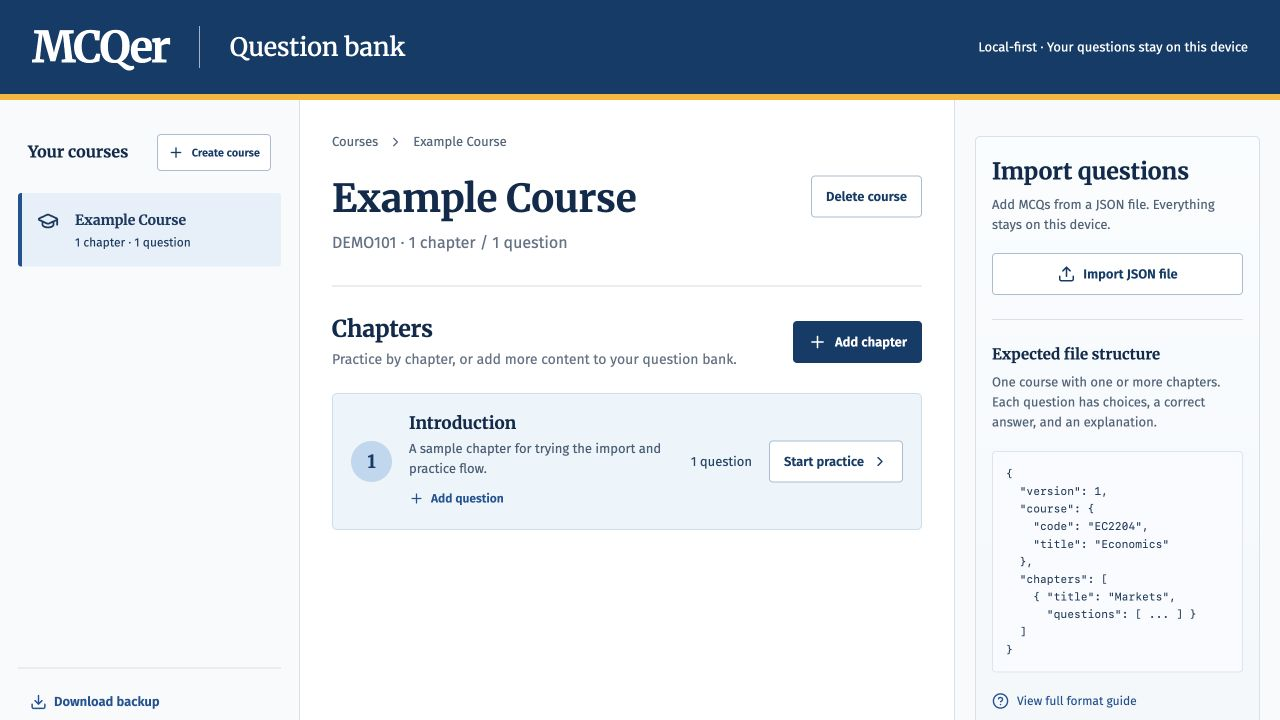
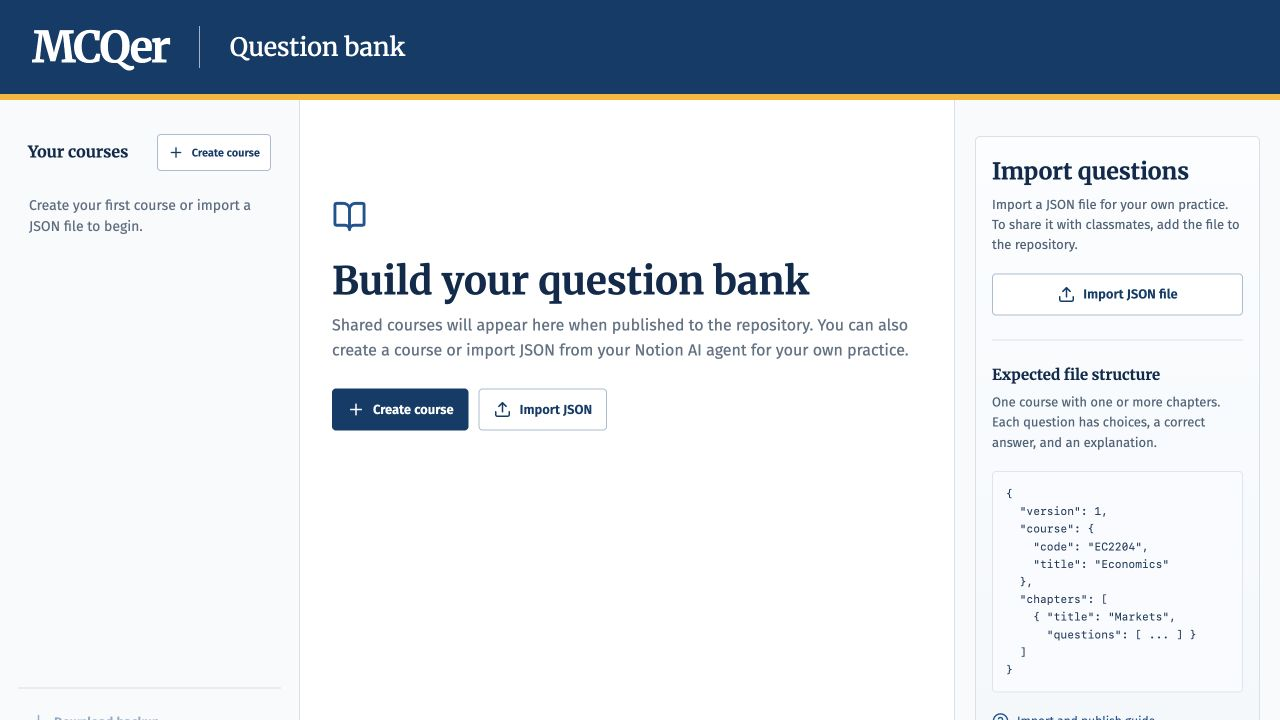
Add shared question bank publishing

diff --git a/src/main.jsx b/src/main.jsx
@@ -1,21 +1,41 @@
-import React, { useEffect, useRef, useState } from 'react';
+import React, { useEffect, useMemo, useRef, useState } from 'react';
 import { createRoot } from 'react-dom/client';
 import { BookOpen, Check, ChevronLeft, ChevronRight, CircleHelp, Download, GraduationCap, Plus, RotateCcw, Upload, X } from 'lucide-react';
 import { loadCourses, mergeBackup, mergeImport, questionCount, STORAGE_KEY, validateBackup, validateImport } from './data.js';
+import { loadPublishedDocuments, mergePublishedCourses } from './published.js';
 import './styles.css';
 
 function App() {
-  const [courses, setCourses] = useState(loadCourses);
-  const [selectedId, setSelectedId] = useState(null);
+  const [localCourses, setLocalCourses] = useState(loadCourses);
+  const [publishedDocuments, setPublishedDocuments] = useState([]);
+  const [catalogLoading, setCatalogLoading] = useState(true);
+  const [catalogError, setCatalogError] = useState('');
+  const [selectedCode, setSelectedCode] = useState(null);
   const [modal, setModal] = useState(null);
   const [notice, setNotice] = useState('');
   const [practice, setPractice] = useState(null);
   const fileRef = useRef(null);
   const backupRef = useRef(null);
-  const course = courses.find(item => item.id === selectedId) || courses[0];
-  useEffect(() => { localStorage.setItem(STORAGE_KEY, JSON.stringify(courses)); }, [courses]);
+  const courses = useMemo(() => mergePublishedCourses(localCourses, publishedDocuments), [localCourses, publishedDocuments]);
+  const publishedCodes = useMemo(() => new Set(publishedDocuments.map(item => item.course.code.trim().toLowerCase())), [publishedDocuments]);
+  const course = courses.find(item => item.code.toLowerCase() === selectedCode?.toLowerCase()) || courses[0];
+  const isPublished = Boolean(course && publishedCodes.has(course.code.toLowerCase()));
+  useEffect(() => { localStorage.setItem(STORAGE_KEY, JSON.stringify(localCourses)); }, [localCourses]);
+  useEffect(() => {
+    let active = true;
+    loadPublishedDocuments(import.meta.env.BASE_URL).then(documents => {
+      if (active) { setPublishedDocuments(documents); setCatalogLoading(false); }
+    }).catch(error => {
+      if (active) { setCatalogError(error.message); setCatalogLoading(false); }
+    });
+    return () => { active = false; };
+  }, []);
   useEffect(() => { if (notice) { const timer = setTimeout(() => setNotice(''), 6000); return () => clearTimeout(timer); } }, [notice]);
-  const updateCourse = updated => setCourses(current => current.map(item => item.id === updated.id ? updated : item));
+  const updateCourse = updated => setLocalCourses(current => {
+    const index = current.findIndex(item => item.code.toLowerCase() === updated.code.toLowerCase());
+    if (index < 0) return [...current, updated];
+    const next = [...current]; next[index] = updated; return next;
+  });
 
   function saveCourse(event) {
     event.preventDefault();
@@ -24,7 +44,7 @@ function App() {
     const title = String(form.get('title')).trim();
     if (courses.some(item => item.code.toLowerCase() === code.toLowerCase())) { setNotice('A course with that code already exists.'); return; }
     const created = { id: crypto.randomUUID(), code, title, chapters: [] };
-    setCourses([...courses, created]); setSelectedId(created.id); setModal(null);
+    setLocalCourses([...localCourses, created]); setSelectedCode(created.code); setModal(null);
   }
   function saveChapter(event) {
     event.preventDefault();
@@ -43,8 +63,9 @@ function App() {
     updateCourse({ ...course, chapters: course.chapters.map(chapter => chapter.id === chapterId ? { ...chapter, questions: [...chapter.questions, question] } : chapter) }); setModal(null);
   }
   function deleteCourse() {
-    setCourses(current => current.filter(item => item.id !== course.id));
-    setSelectedId(null); setPractice(null); setModal(null);
+    if (isPublished) return;
+    setLocalCourses(current => current.filter(item => item.code.toLowerCase() !== course.code.toLowerCase()));
+    setSelectedCode(null); setPractice(null); setModal(null);
     setNotice('Course deleted.');
   }
   async function importFile(event) {
@@ -55,8 +76,8 @@ function App() {
     try { input = JSON.parse(await file.text()); } catch { setModal({ type: 'errors', errors: ['The file is not valid JSON.'] }); return; }
     const errors = validateImport(input);
     if (errors.length) { setModal({ type: 'errors', errors }); return; }
-    const result = mergeImport(courses, input);
-    setCourses(result.courses); setSelectedId(result.courseId); setPractice(null);
+    const result = mergeImport(localCourses, input);
+    setLocalCourses(result.courses); setSelectedCode(input.course.code.trim()); setPractice(null);
     setNotice('Imported ' + result.added + ' new and updated ' + result.updated + ' questions.');
   }
   async function restoreBackup(event) {
@@ -67,8 +88,8 @@ function App() {
     try { data = JSON.parse(await file.text()); } catch { setModal({ type: 'errors', errors: ['The backup is not valid JSON.'] }); return; }
     const errors = validateBackup(data);
     if (errors.length) { setModal({ type: 'errors', errors }); return; }
-    const result = mergeBackup(courses, data);
-    setCourses(result.courses); setPractice(null);
+    const result = mergeBackup(localCourses, data);
+    setLocalCourses(result.courses); setPractice(null);
     setNotice('Backup merged: ' + result.added + ' new and ' + result.updated + ' updated questions.');
   }
   function exportData() {
@@ -86,14 +107,15 @@ function App() {
 
   return <div className="app-shell">
     <a className="skip-link" href="#main">Skip to content</a>
-    <header className="topbar"><div className="topbar-brand"><span className="brand-name">MCQer</span><span className="brand-divider"/><span className="brand-subtitle">Question bank</span></div><span className="topbar-note">Local-first · Your questions stay on this device</span></header>
+    <header className="topbar"><div className="topbar-brand"><span className="brand-name">MCQer</span><span className="brand-divider"/><span className="brand-subtitle">Question bank</span></div></header>
     <div className="workspace">
       <aside className="sidebar" aria-label="Courses">
         <div className="sidebar-heading"><h2>Your courses</h2><button className="button small secondary" onClick={() => setModal({ type: 'course' })}><Plus size={16}/> Create course</button></div>
-        {courses.length ? <nav className="course-list">{courses.map(item => <button key={item.id} className={'course-item ' + (course?.id === item.id ? 'active' : '')} onClick={() => { setSelectedId(item.id); setPractice(null); }}><GraduationCap size={22}/><span><strong>{item.title}</strong><small>{item.chapters.length} {item.chapters.length === 1 ? 'chapter' : 'chapters'} · {questionCount(item)} {questionCount(item) === 1 ? 'question' : 'questions'}</small></span></button>)}</nav> : <div className="sidebar-empty">Create your first course or import a JSON file to begin.</div>}
+        {courses.length ? <nav className="course-list">{courses.map(item => <button key={item.code} className={'course-item ' + (course?.code === item.code ? 'active' : '')} onClick={() => { setSelectedCode(item.code); setPractice(null); }}><GraduationCap size={22}/><span><strong>{item.title}</strong><small>{item.chapters.length} {item.chapters.length === 1 ? 'chapter' : 'chapters'} · {questionCount(item)} {questionCount(item) === 1 ? 'question' : 'questions'}{publishedCodes.has(item.code.toLowerCase()) ? ' · Shared' : ''}</small></span></button>)}</nav> : <div className="sidebar-empty">{catalogLoading ? 'Loading shared questions…' : 'Create your first course or import a JSON file to begin.'}</div>}
         <div className="sidebar-bottom"><button className="plain-link" onClick={exportData} disabled={!courses.length}><Download size={17}/> Download backup</button><button className="plain-link" onClick={() => backupRef.current?.click()}><Upload size={17}/> Restore backup</button></div>
       </aside>
       <main id="main" className="main-content">
+        {catalogError && <div className="catalog-error" role="alert">Shared questions could not load: {catalogError} Reload the page to try again.</div>}
         {practice ? <>
           <button className="back-link" onClick={() => setPractice(null)}><ChevronLeft size={18}/> Back to {course?.title}</button>
           <div className="practice-heading"><div><p className="eyeline">{practice.chapter.title}</p><h1>{finished ? 'Practice complete' : 'Question ' + (practice.index + 1) + ' of ' + questions.length}</h1></div><span className="progress-label">{finished ? score + '/' + questions.length + ' correct' : Math.round((practice.index / questions.length) * 100) + '% complete'}</span></div>
@@ -101,14 +123,14 @@ function App() {
           <section className="question-panel"><div className="question-count">{practice.index + 1} / {questions.length}</div><h2>{currentQuestion.stem}</h2><div className="answer-list">{currentQuestion.options.map(option => { const correct = option.id === currentQuestion.correctOptionId; const chosen = option.id === selectedAnswer; return <button key={option.id} disabled={practice.revealed} className={'answer-option ' + (chosen ? 'chosen ' : '') + (practice.revealed && correct ? 'correct ' : '') + (practice.revealed && chosen && !correct ? 'incorrect' : '')} onClick={() => setPractice({ ...practice, answers: { ...practice.answers, [currentQuestion.id]: option.id } })}><span className="option-letter">{option.id}</span><span>{option.text}</span>{practice.revealed && correct && <Check size={19}/>}</button>; })}</div>{practice.revealed && <div className="explanation"><strong>{selectedAnswer === currentQuestion.correctOptionId ? 'Correct' : 'Review this answer'}</strong><p>{currentQuestion.explanation}</p>{currentQuestion.source && <small>Source: {currentQuestion.source}</small>}</div>}<div className="question-footer"><button className="button secondary" disabled={!practice.index} onClick={() => setPractice({ ...practice, index: practice.index - 1, revealed: false })}><ChevronLeft size={17}/> Previous</button>{practice.revealed ? <button className="button primary" onClick={() => setPractice({ ...practice, index: practice.index + 1, revealed: false })}>{practice.index === questions.length - 1 ? 'View results' : 'Next question'} <ChevronRight size={17}/></button> : <button className="button primary" disabled={!selectedAnswer} onClick={() => setPractice({ ...practice, revealed: true })}>Check answer</button>}</div></section>}
         </> : course ? <>
           <div className="breadcrumb">Courses <ChevronRight size={15}/> {course.title}</div>
-          <div className="course-heading"><div><h1>{course.title}</h1><p>{course.code} · {course.chapters.length} {course.chapters.length === 1 ? 'chapter' : 'chapters'} / {questionCount(course)} {questionCount(course) === 1 ? 'question' : 'questions'}</p></div><button className="button secondary" onClick={() => setModal({ type: 'delete-course' })}>Delete course</button></div>
+          <div className="course-heading"><div><h1>{course.title}</h1><p>{course.code} · {course.chapters.length} {course.chapters.length === 1 ? 'chapter' : 'chapters'} / {questionCount(course)} {questionCount(course) === 1 ? 'question' : 'questions'}</p>{isPublished && <p className="shared-hint">Shared with classmates. Questions added in the app stay in this browser until published to the repo.</p>}</div>{!isPublished && <button className="button secondary" onClick={() => setModal({ type: 'delete-course' })}>Delete course</button>}</div>
           <div className="section-heading"><div><h2>Chapters</h2><p>Practice by chapter, or add more content to your question bank.</p></div><button className="button primary" onClick={() => setModal({ type: 'chapter' })}><Plus size={19}/> Add chapter</button></div>
           {course.chapters.length ? <div className="chapter-list">{course.chapters.map((chapter, index) => <article className="chapter-row" key={chapter.id}><span className="chapter-number">{index + 1}</span><div className="chapter-text"><h3>{chapter.title}</h3><p>{chapter.description || 'Questions for this chapter'}</p><button className="text-action" onClick={() => setModal({ type: 'question', chapterId: chapter.id })}><Plus size={15}/> Add question</button></div><span className="question-total">{chapter.questions.length} {chapter.questions.length === 1 ? 'question' : 'questions'}</span><button className="button secondary" disabled={!chapter.questions.length} onClick={() => startPractice(chapter)}>Start practice <ChevronRight size={16}/></button></article>)}</div> : <div className="empty-main"><BookOpen size={33}/><h3>No chapters yet</h3><p>Add a chapter or import questions generated from your lecture materials.</p><button className="button primary" onClick={() => setModal({ type: 'chapter' })}><Plus size={17}/> Add chapter</button></div>}
-        </> : <div className="welcome"><BookOpen size={35}/><h1>Build your question bank</h1><p>Create a course, add chapters, and practice MCQs from your lecture material. You can also import a JSON file prepared by your Notion AI agent.</p><div className="row-actions"><button className="button primary" onClick={() => setModal({ type: 'course' })}><Plus size={18}/> Create course</button><button className="button secondary" onClick={() => fileRef.current?.click()}><Upload size={18}/> Import JSON</button></div></div>}
+        </> : <div className="welcome"><BookOpen size={35}/><h1>Build your question bank</h1><p>Shared courses will appear here when published to the repository. You can also create a course or import JSON from your Notion AI agent for your own practice.</p><div className="row-actions"><button className="button primary" onClick={() => setModal({ type: 'course' })}><Plus size={18}/> Create course</button><button className="button secondary" onClick={() => fileRef.current?.click()}><Upload size={18}/> Import JSON</button></div></div>}
       </main>
-      <aside className="info-sidebar"><div className="import-panel"><h2>Import questions</h2><p>Add MCQs from a JSON file. Everything stays on this device.</p><button className="button secondary import-button" onClick={() => fileRef.current?.click()}><Upload size={18}/> Import JSON file</button><hr/><h3>Expected file structure</h3><p>One course with one or more chapters. Each question has choices, a correct answer, and an explanation.</p><pre>{'{\n  "version": 1,\n  "course": {\n    "code": "EC2204",\n    "title": "Economics"\n  },\n  "chapters": [\n    { "title": "Markets",\n      "questions": [ ... ] }\n  ]\n}'}</pre><a className="guide-link" href={import.meta.env.BASE_URL + 'IMPORT_FORMAT.md'} target="_blank" rel="noreferrer"><CircleHelp size={17}/> View full format guide</a></div></aside>
+      <aside className="info-sidebar"><div className="import-panel"><h2>Import questions</h2><p>Import a JSON file for your own practice. To share it with classmates, add the file to the repository.</p><button className="button secondary import-button" onClick={() => fileRef.current?.click()}><Upload size={18}/> Import JSON file</button><hr/><h3>Expected file structure</h3><p>One course with one or more chapters. Each question has choices, a correct answer, and an explanation.</p><pre>{'{\n  "version": 1,\n  "course": {\n    "code": "EC2204",\n    "title": "Economics"\n  },\n  "chapters": [\n    { "title": "Markets",\n      "questions": [ ... ] }\n  ]\n}'}</pre><a className="guide-link" href={import.meta.env.BASE_URL + 'IMPORT_FORMAT.md'} target="_blank" rel="noreferrer"><CircleHelp size={17}/> Import and publish guide</a></div></aside>
     </div>
-    <footer><strong>MCQer</strong><span>A local-first study tool</span><span className="footer-end">Built for better practice</span></footer>
+    <footer><strong>MCQer</strong><span>A question bank for courses and chapters</span><span className="footer-end">Built for better practice</span></footer>
     <input ref={fileRef} type="file" accept=".json,application/json" hidden onChange={importFile}/>
     <input ref={backupRef} type="file" accept=".json,application/json" hidden onChange={restoreBackup}/>
     {notice && <div className="toast" role="status">{notice}</div>}

diff --git a/src/published.js b/src/published.js
@@ -1,0 +1,60 @@
+import { mergeImport, validateImport } from './data.js';
+
+const safeFile = /^[a-z0-9][a-z0-9-]*\.json$/;
+
+export function validateManifest(manifest) {
+  if (!manifest || manifest.version !== 1 || !Array.isArray(manifest.files)) return ['Invalid published question manifest.'];
+  const errors = [];
+  if (new Set(manifest.files).size !== manifest.files.length) errors.push('Manifest has duplicate files.');
+  for (const file of manifest.files) if (typeof file !== 'string' || !safeFile.test(file)) errors.push('Invalid question file name: ' + String(file));
+  return errors;
+}
+
+export async function loadPublishedDocuments(baseUrl, fetcher = fetch) {
+  const root = baseUrl.endsWith('/') ? baseUrl : baseUrl + '/';
+  const manifestResponse = await fetcher(root + 'questions/manifest.json', { cache: 'no-store' });
+  if (!manifestResponse.ok) throw new Error('Could not load the published question index.');
+  const manifest = await manifestResponse.json();
+  const errors = validateManifest(manifest);
+  if (errors.length) throw new Error(errors.join(' '));
+  const documents = await Promise.all(manifest.files.map(async file => {
+    const response = await fetcher(root + 'questions/' + file, { cache: 'no-store' });
+    if (!response.ok) throw new Error('Could not load published questions: ' + file);
+    const document = await response.json();
+    const issues = validateImport(document);
+    if (issues.length) throw new Error(file + ': ' + issues.join(' '));
+    return document;
+  }));
+  const codes = documents.map(document => document.course.code.trim().toLowerCase());
+  if (new Set(codes).size !== codes.length) throw new Error('Published courses contain duplicate codes.');
+  return documents;
+}
+
+export function mergePublishedCourses(localCourses, documents) {
+  return documents.reduce((courses, document) => mergeImport(courses, document).courses, localCourses);
+}
+
+export function mergeQuestionDocuments(existing, incoming) {
+  const issues = validateImport(incoming);
+  if (issues.length) throw new Error(issues.join(' '));
+  if (!existing) return incoming;
+  const previousIssues = validateImport(existing);
+  if (previousIssues.length) throw new Error('Existing file is invalid: ' + previousIssues.join(' '));
+  if (existing.course.code.trim().toLowerCase() !== incoming.course.code.trim().toLowerCase()) throw new Error('Course codes do not match.');
+  const chapters = existing.chapters.map(chapter => ({ ...chapter, questions: [...chapter.questions] }));
+  for (const chapter of incoming.chapters) {
+    const index = chapters.findIndex(item => item.title.trim().toLowerCase() === chapter.title.trim().toLowerCase());
+    if (index < 0) { chapters.push(chapter); continue; }
+    const current = chapters[index];
+    const questions = [...current.questions];
+    for (const question of chapter.questions) {
+      const qi = questions.findIndex(item => item.id.trim() === question.id.trim());
+      if (qi < 0) questions.push(question); else questions[qi] = question;
+    }
+    chapters[index] = { ...current, ...chapter, questions };
+  }
+  const merged = { version: 1, course: incoming.course, chapters };
+  const mergedIssues = validateImport(merged);
+  if (mergedIssues.length) throw new Error('Merged file is invalid: ' + mergedIssues.join(' '));
+  return merged;
+}

diff --git a/tests/published.test.js b/tests/published.test.js
@@ -1,0 +1,32 @@
+import assert from 'node:assert/strict';
+import { readFileSync } from 'node:fs';
+import test from 'node:test';
+import { loadPublishedDocuments, mergePublishedCourses, mergeQuestionDocuments, validateManifest } from '../src/published.js';
+
+const example = JSON.parse(readFileSync(new URL('../example-import.json', import.meta.url), 'utf8'));
+
+test('published manifest loads valid course files from the deployment base path', async () => {
+  const seen = [];
+  const fetcher = async url => {
+    seen.push(url);
+    return { ok: true, json: async () => url.endsWith('manifest.json') ? { version: 1, files: ['demo101.json'] } : example };
+  };
+  const documents = await loadPublishedDocuments('/mcqer/', fetcher);
+  assert.equal(documents.length, 1);
+  assert.deepEqual(seen, ['/mcqer/questions/manifest.json', '/mcqer/questions/demo101.json']);
+  assert.equal(mergePublishedCourses([], documents)[0].chapters[0].questions.length, 1);
+});
+
+test('published revisions replace a stable question without losing other chapters', () => {
+  const addition = structuredClone(example);
+  addition.chapters[0].questions[0].explanation = 'Updated explanation.';
+  addition.chapters.push({ title: 'Next chapter', questions: [] });
+  const merged = mergeQuestionDocuments(example, addition);
+  assert.equal(merged.chapters.length, 2);
+  assert.equal(merged.chapters[0].questions.length, 1);
+  assert.equal(merged.chapters[0].questions[0].explanation, 'Updated explanation.');
+});
+
+test('manifest blocks paths outside the published question directory', () => {
+  assert.match(validateManifest({ version: 1, files: ['../secret.json'] }).join(' '), /Invalid question file/);
+});

diff --git a/src/styles.css b/src/styles.css
@@ -8,3 +8,5 @@
 .import-panel pre{white-space:pre-wrap;overflow-wrap:anywhere}
 
 .course-heading{display:flex;align-items:flex-start;justify-content:space-between;gap:20px}.button.danger{background:#a32222;color:#fff;border:1px solid #a32222}.button.danger:hover{background:#8b1c1c}@media(max-width:700px){.course-heading{align-items:flex-start}.course-heading>.button{font-size:11px;padding:7px 8px;min-height:36px}}
+
+.shared-hint{margin:12px 0 0;color:#4e6b82;font-size:13px;max-width:560px}.catalog-error{border-left:4px solid #a32222;background:#fff0f0;color:#7d2020;padding:12px 15px;margin-bottom:20px;font-size:13px}

diff --git a/IMPORT_FORMAT.md b/IMPORT_FORMAT.md
@@ -1,12 +1,12 @@
 # MCQer import format
 
-Open MCQer at **https://meetdanielme.github.io/mcqer/**. The hosted app accepts a JSON file from your device; your Notion AI agent does not need access to the GitHub repository.
+Open MCQer at **https://meetdanielme.github.io/mcqer/**. Questions committed to the public repository load automatically for every visitor. Notion AI does not need GitHub access; it prepares the file for publication.
 
-MCQer imports UTF-8 JSON files. Give your Notion AI agent the instructions below and ask it to return a **downloadable `.json` file**, with no Markdown code fence or commentary inside the file. Download the file from Notion, open the hosted MCQer app, and choose **Import JSON file**. You can import the same file again after revising it; stable IDs update existing questions.
+MCQer uses UTF-8 JSON files. Give your Notion AI agent the instructions below and ask it to return a **downloadable `.json` file**, with no Markdown code fence or commentary inside the file. Review the file, then add it to this repository with the publishing command below. The app will load it for everyone after deployment. You can use **Import JSON file** to preview it privately in your own browser first.
 
 ## Prompt for Notion AI
 
-> Using only the lecture materials I provide, create multiple-choice questions for MCQer at https://meetdanielme.github.io/mcqer/. Produce a downloadable UTF-8 `.json` file containing one valid JSON object in the version 1 format below. Do not wrap the JSON in a Markdown code fence or add commentary to the file. Use my exact course code and title, and group questions by lecture chapter. Write four plausible, distinct options per question. Give each question a stable, unique ID in the form COURSE-CHAPTER-001 so future imports can update the same question. Set correctOptionId to the ID of the correct option. Include a short explanation of why it is correct and a source reference to the lecture or slide. Do not invent unsupported facts. Avoid ambiguous answers, “all of the above”, and duplicate questions. Give me the file to download; do not publish the lecture materials or question file to GitHub.
+> Using only the lecture materials I provide, create multiple-choice questions for MCQer at https://meetdanielme.github.io/mcqer/. Produce a downloadable UTF-8 `.json` file containing one valid JSON object in the version 1 format below. This file will be reviewed and published in a public GitHub repository so classmates can use the questions. Do not include private notes, personal information, or copyrighted slide text copied at length. Do not wrap the JSON in a Markdown code fence or add commentary to the file. Use my exact course code and title, and group questions by lecture chapter. Write four plausible, distinct options per question. Give each question a stable, unique ID in the form COURSE-CHAPTER-001 so future publications can update the same question. Set correctOptionId to the ID of the correct option. Include a short explanation of why it is correct and a source reference to the lecture or slide. Do not invent unsupported facts. Avoid ambiguous answers, “all of the above”, and duplicate questions. Give me the JSON file to download; do not publish the lecture materials.
 
 ## Example
 
@@ -49,6 +49,22 @@ MCQer imports UTF-8 JSON files. Give your Notion AI agent the instructions below
 - Each question needs a unique string `id`, `stem`, 2–6 `options`, `correctOptionId`, and `explanation`. `source` is optional.
 - Each option needs a unique string `id` and non-empty `text`. `correctOptionId` must equal one of those IDs.
 - A new chapter is added. A chapter with the same title in the same course is merged. A question with the same ID in that chapter is updated. Other questions are kept.
-- Import validates the whole file before changing anything. GitHub Pages hosts only the app code. Your courses and MCQs are stored in the browser you use, and do not automatically appear on another device. For now, use **Download backup** on one device and **Restore backup** on another to copy your bank. A backup includes all courses, whereas a Notion AI import file contains one course. Keep a backup before clearing browser data.
+- Import validates the whole file before changing anything. A file imported through the app is private to that browser until it is published to the repository. A backup includes all visible courses, whereas a Notion AI import file contains one course.
+
+## Publish to the shared app
+
+From the MCQer repository, run:
+
+```sh
+pnpm publish:questions /path/to/notion-ai-export.json
+pnpm test
+pnpm validate:questions
+pnpm build --base /mcqer/
+git add public/questions/
+git commit -m "Publish new MCQs"
+git push
+```
+
+The command validates and merges the file into `public/questions/`. GitHub Pages deploys the updated bank after the push. Ask Codex to run these steps if you prefer. Everyone opening or refreshing the site then receives the published questions. Browser-only changes and drafts remain on that device until published.
 
 This format is for MCQs only. No flashcard fields are used.

diff --git a/public/IMPORT_FORMAT.md b/public/IMPORT_FORMAT.md
@@ -1,12 +1,12 @@
 # MCQer import format
 
-Open MCQer at **https://meetdanielme.github.io/mcqer/**. The hosted app accepts a JSON file from your device; your Notion AI agent does not need access to the GitHub repository.
+Open MCQer at **https://meetdanielme.github.io/mcqer/**. Questions committed to the public repository load automatically for every visitor. Notion AI does not need GitHub access; it prepares the file for publication.
 
-MCQer imports UTF-8 JSON files. Give your Notion AI agent the instructions below and ask it to return a **downloadable `.json` file**, with no Markdown code fence or commentary inside the file. Download the file from Notion, open the hosted MCQer app, and choose **Import JSON file**. You can import the same file again after revising it; stable IDs update existing questions.
+MCQer uses UTF-8 JSON files. Give your Notion AI agent the instructions below and ask it to return a **downloadable `.json` file**, with no Markdown code fence or commentary inside the file. Review the file, then add it to this repository with the publishing command below. The app will load it for everyone after deployment. You can use **Import JSON file** to preview it privately in your own browser first.
 
 ## Prompt for Notion AI
 
-> Using only the lecture materials I provide, create multiple-choice questions for MCQer at https://meetdanielme.github.io/mcqer/. Produce a downloadable UTF-8 `.json` file containing one valid JSON object in the version 1 format below. Do not wrap the JSON in a Markdown code fence or add commentary to the file. Use my exact course code and title, and group questions by lecture chapter. Write four plausible, distinct options per question. Give each question a stable, unique ID in the form COURSE-CHAPTER-001 so future imports can update the same question. Set correctOptionId to the ID of the correct option. Include a short explanation of why it is correct and a source reference to the lecture or slide. Do not invent unsupported facts. Avoid ambiguous answers, “all of the above”, and duplicate questions. Give me the file to download; do not publish the lecture materials or question file to GitHub.
+> Using only the lecture materials I provide, create multiple-choice questions for MCQer at https://meetdanielme.github.io/mcqer/. Produce a downloadable UTF-8 `.json` file containing one valid JSON object in the version 1 format below. This file will be reviewed and published in a public GitHub repository so classmates can use the questions. Do not include private notes, personal information, or copyrighted slide text copied at length. Do not wrap the JSON in a Markdown code fence or add commentary to the file. Use my exact course code and title, and group questions by lecture chapter. Write four plausible, distinct options per question. Give each question a stable, unique ID in the form COURSE-CHAPTER-001 so future publications can update the same question. Set correctOptionId to the ID of the correct option. Include a short explanation of why it is correct and a source reference to the lecture or slide. Do not invent unsupported facts. Avoid ambiguous answers, “all of the above”, and duplicate questions. Give me the JSON file to download; do not publish the lecture materials.
 
 ## Example
 
@@ -49,6 +49,22 @@ MCQer imports UTF-8 JSON files. Give your Notion AI agent the instructions below
 - Each question needs a unique string `id`, `stem`, 2–6 `options`, `correctOptionId`, and `explanation`. `source` is optional.
 - Each option needs a unique string `id` and non-empty `text`. `correctOptionId` must equal one of those IDs.
 - A new chapter is added. A chapter with the same title in the same course is merged. A question with the same ID in that chapter is updated. Other questions are kept.
-- Import validates the whole file before changing anything. GitHub Pages hosts only the app code. Your courses and MCQs are stored in the browser you use, and do not automatically appear on another device. For now, use **Download backup** on one device and **Restore backup** on another to copy your bank. A backup includes all courses, whereas a Notion AI import file contains one course. Keep a backup before clearing browser data.
+- Import validates the whole file before changing anything. A file imported through the app is private to that browser until it is published to the repository. A backup includes all visible courses, whereas a Notion AI import file contains one course.
+
+## Publish to the shared app
+
+From the MCQer repository, run:
+
+```sh
+pnpm publish:questions /path/to/notion-ai-export.json
+pnpm test
+pnpm validate:questions
+pnpm build --base /mcqer/
+git add public/questions/
+git commit -m "Publish new MCQs"
+git push
+```
+
+The command validates and merges the file into `public/questions/`. GitHub Pages deploys the updated bank after the push. Ask Codex to run these steps if you prefer. Everyone opening or refreshing the site then receives the published questions. Browser-only changes and drafts remain on that device until published.
 
 This format is for MCQs only. No flashcard fields are used.

diff --git a/README.md b/README.md
@@ -1,6 +1,6 @@
 # MCQer
 
-A local-first question bank for courses, chapters, and MCQ practice. It uses the navy, gold, typography, and panel treatment of the UCC BIS Timetable.
+A question bank for courses, chapters, and MCQ practice. It uses the navy, gold, typography, and panel treatment of the UCC BIS Timetable.
 
 Hosted app: **https://meetdanielme.github.io/mcqer/**
 
@@ -15,6 +15,14 @@ Open the URL printed by Vite. For a production build, run `pnpm build`.
 
 ## Use
 
-Create a course and chapter to write questions in the app, or import a JSON file generated from your lecture material. See [IMPORT_FORMAT.md](IMPORT_FORMAT.md) for the exact format and a prompt to give Notion AI. Practice a chapter to answer questions and see explanations and a score. Data stays in the local storage of each browser. **Download backup** exports the current data as JSON; **Restore backup** merges it back without removing existing courses or questions.
+Courses published in [public/questions](public/questions) load automatically for everyone who opens the hosted app. Create a course and chapter in the app, or import a JSON file, for personal practice in that browser. See [IMPORT_FORMAT.md](IMPORT_FORMAT.md) for the exact format and a prompt to give Notion AI. Practice a chapter to answer questions and see explanations and a score. **Download backup** exports the visible bank as JSON; **Restore backup** merges it into that browser.
 
-The GitHub Pages URL makes the app accessible on other devices, but it does not sync questions between them. There is no account or hosted database. Clearing site data removes that browser's question bank, so keep a backup.
+## Publish future questions for classmates
+
+1. Ask Notion AI for a JSON file using [IMPORT_FORMAT.md](IMPORT_FORMAT.md). Review the questions and answer key.
+2. In this repository, run `pnpm publish:questions path/to/file.json`. The script validates the file and merges it into the course file in `public/questions/`; stable question IDs update existing questions.
+3. Commit and push the changed `public/questions/` files. The Pages workflow tests and deploys them. On the next page load, everyone sees the published questions.
+
+Importing a file **inside the app** saves it only in that browser. The static GitHub Pages site cannot commit it to GitHub on its own. Questions you add manually in the app are also browser-only until they are included in a JSON file and published.
+
+There is no account or hosted database. Browser-only questions do not sync between devices, and clearing site data removes them. Keep a backup.
